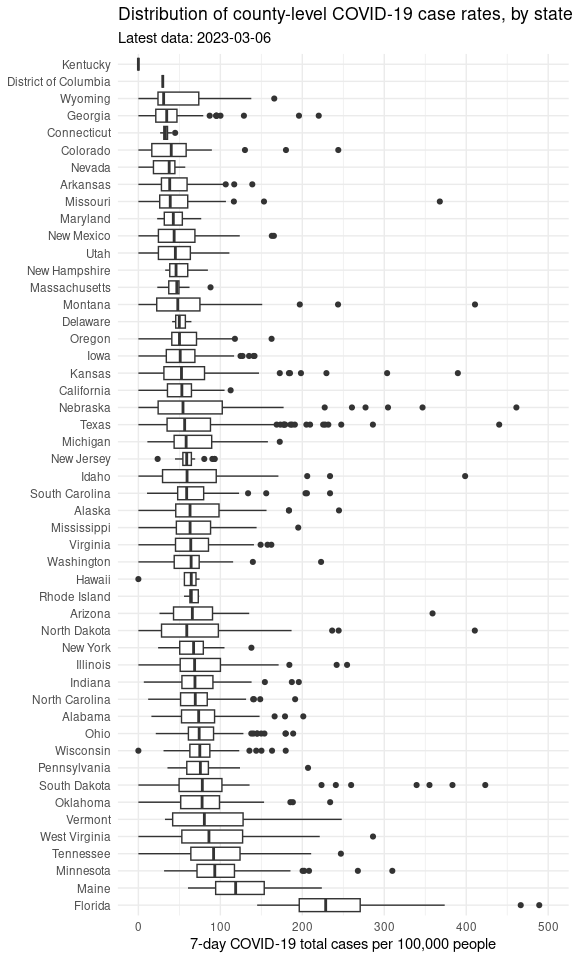
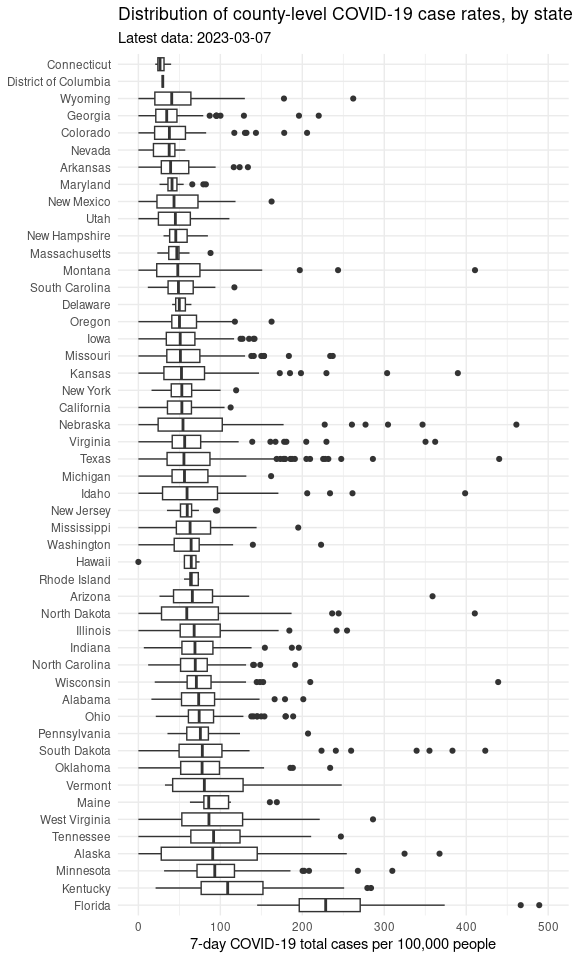
Updated report

diff --git a/README.md b/README.md
@@ -1,7 +1,7 @@
 Minnesota COVID Report
 ================
 
-Report last run: 2023-03-07 22:19:18
+Report last run: 2023-03-08 22:19:31
 
 ## Introduction
 
@@ -106,25 +106,25 @@ rate_data %>%
   knitr::kable()
 ```
 
-| county        | state          |     pop | covid_rate |
-|:--------------|:---------------|--------:|-----------:|
-| Loving        | Texas          |     169 |       2367 |
-| Clark         | Kansas         |    1994 |        802 |
-| Menominee     | Wisconsin      |    4556 |        724 |
-| Rawlins       | Kansas         |    2530 |        593 |
-| Rolette       | North Dakota   |   14176 |        578 |
-| Traverse      | Minnesota      |    3259 |        552 |
-| Dorchester    | South Carolina |  162809 |        527 |
-| Keweenaw      | Michigan       |    2116 |        520 |
-| Miami-Dade    | Florida        | 2716940 |        508 |
-| Jackson       | Florida        |   46414 |        489 |
-| Gadsden       | Florida        |   45660 |        466 |
-| Hamilton      | Nebraska       |    9324 |        461 |
-| Concho        | Texas          |    2726 |        440 |
-| Oglala Lakota | South Dakota   |   14177 |        423 |
-| Petroleum     | Montana        |     487 |        411 |
-| Sargent       | North Dakota   |    3898 |        410 |
-| Lemhi         | Idaho          |    8027 |        399 |
-| Pawnee        | Kansas         |    6414 |        390 |
-| Todd          | South Dakota   |   10177 |        383 |
-| Suwannee      | Florida        |   44417 |        374 |
+| county             | state        |     pop | covid_rate |
+|:-------------------|:-------------|--------:|-----------:|
+| Loving             | Texas        |     169 |       2367 |
+| Clark              | Kansas       |    1994 |        802 |
+| Rawlins            | Kansas       |    2530 |        593 |
+| Rolette            | North Dakota |   14176 |        578 |
+| Union              | Kentucky     |   14381 |        570 |
+| Traverse           | Minnesota    |    3259 |        552 |
+| Miami-Dade         | Florida      | 2716940 |        508 |
+| Bethel Census Area | Alaska       |   18386 |        506 |
+| Jackson            | Florida      |   46414 |        489 |
+| Gadsden            | Florida      |   45660 |        466 |
+| Hamilton           | Nebraska     |    9324 |        461 |
+| Concho             | Texas        |    2726 |        440 |
+| Menominee          | Wisconsin    |    4556 |        439 |
+| Oglala Lakota      | South Dakota |   14177 |        423 |
+| Petroleum          | Montana      |     487 |        411 |
+| Sargent            | North Dakota |    3898 |        410 |
+| Lemhi              | Idaho        |    8027 |        399 |
+| Pawnee             | Kansas       |    6414 |        390 |
+| Todd               | South Dakota |   10177 |        383 |
+| Suwannee           | Florida      |   44417 |        374 |
